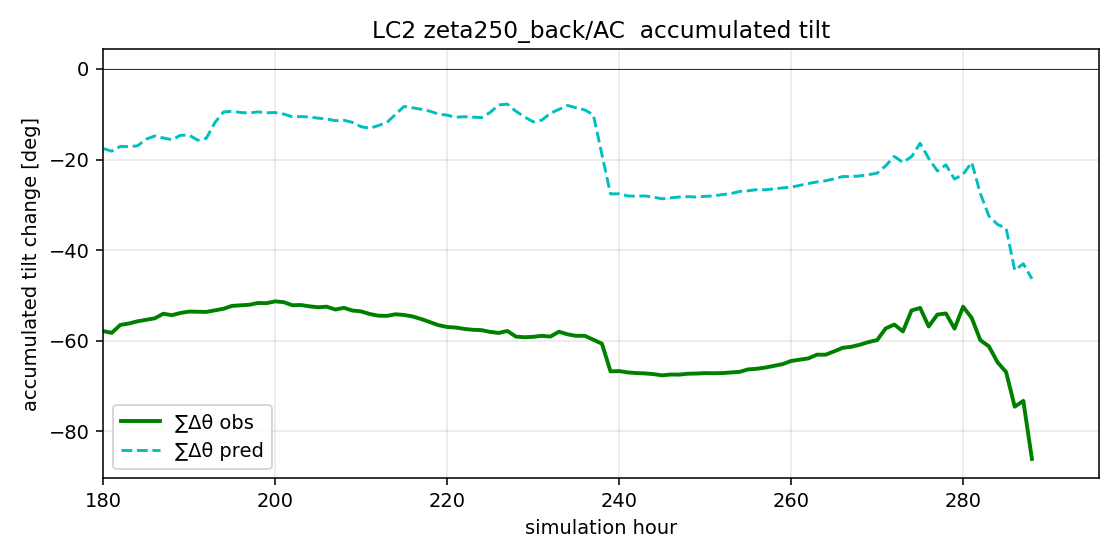
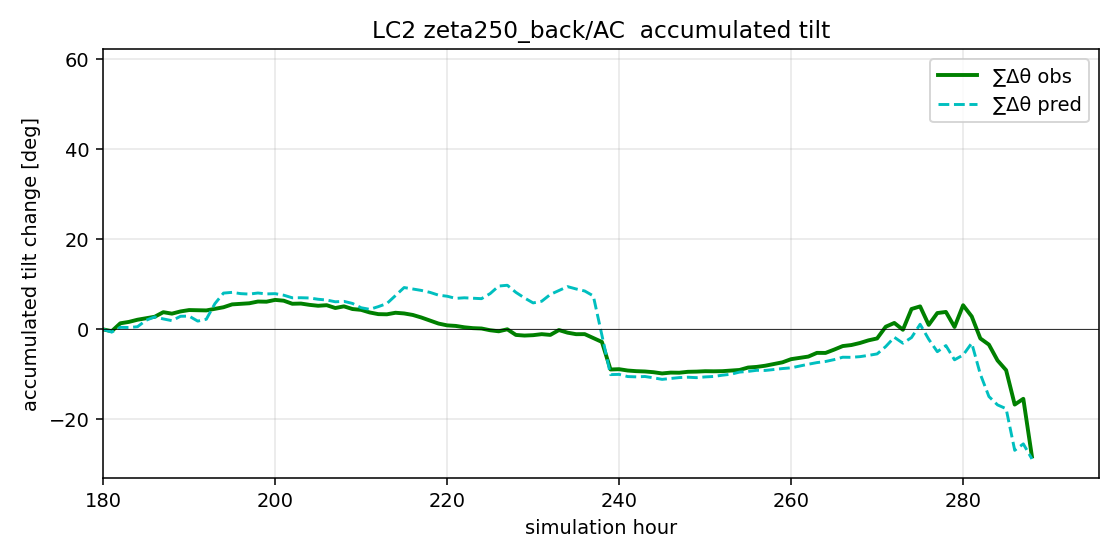
fix(v2.10.3): rebase accumulated tilt to zero at --start_hour
Previously the accumulators dth_obs/dth_pred were always summed from
composite hour 0 (= absolute hour win_h0), so when --start_hour 180
was used the displayed curves still carried the warm-up portion's
drift as a spurious offset at the left edge (~+10° gap between obs
and pred at hour 180 for LC2 back). Now, when start_hour_abs is
given, both accumulators are rebased to zero at idx_start =
searchsorted(t_abs, start_hour_abs), so the displayed curves
genuinely start at (0, 0) at the requested hour.

diff --git a/scripts/tilt_evolution.py b/scripts/tilt_evolution.py
@@ -304,10 +304,21 @@ def process(lc: str, method: str, polarity: str = "C",
                                                       theta_obs[i-1])
         else:
             dth_pred[i] = dth_pred[i-1]
+    # If the user asked to start the plot at a specific absolute hour,
+    # rebase the accumulators so both curves are zero at the first
+    # displayed frame (otherwise drift accumulated during the hidden
+    # warm-up portion appears as a spurious offset at the left edge).
+    dth_obs_disp = dth_obs.copy()
+    dth_pred_disp = dth_pred.copy()
+    if start_hour_abs is not None:
+        idx_start = int(np.searchsorted(t_abs, float(start_hour_abs)))
+        if 0 <= idx_start < nt:
+            dth_obs_disp -= dth_obs[idx_start]
+            dth_pred_disp -= dth_pred[idx_start]
 
     fig, ax = plt.subplots(figsize=(8, 4))
-    ax.plot(t_abs, dth_obs, "g-", lw=2, label="∑Δθ obs")
-    ax.plot(t_abs, dth_pred, "c--", lw=1.5, label="∑Δθ pred")
+    ax.plot(t_abs, dth_obs_disp, "g-", lw=2, label="∑Δθ obs")
+    ax.plot(t_abs, dth_pred_disp, "c--", lw=1.5, label="∑Δθ pred")
     ax.set_xlabel("simulation hour")
     ax.set_ylabel("accumulated tilt change [deg]")
     ax.set_title(f"{lc.upper()} {method}/{polarity}  accumulated tilt")
